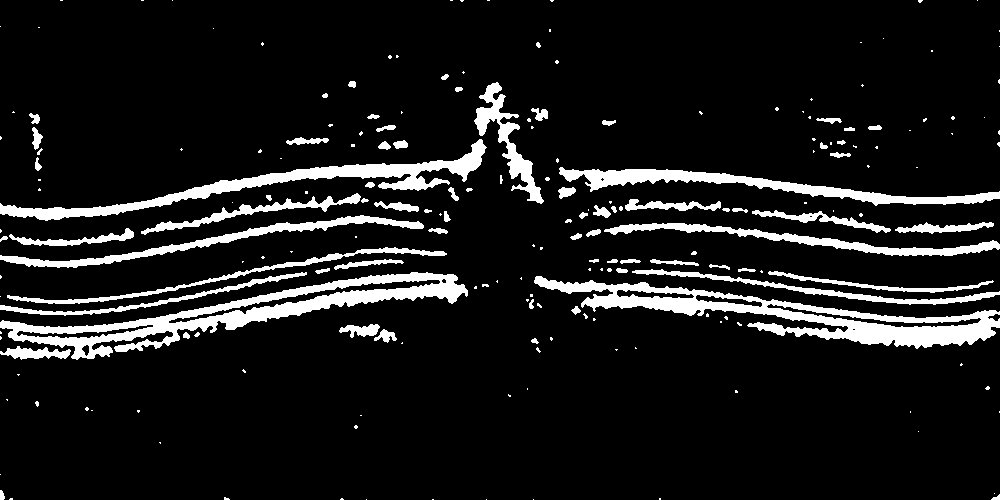
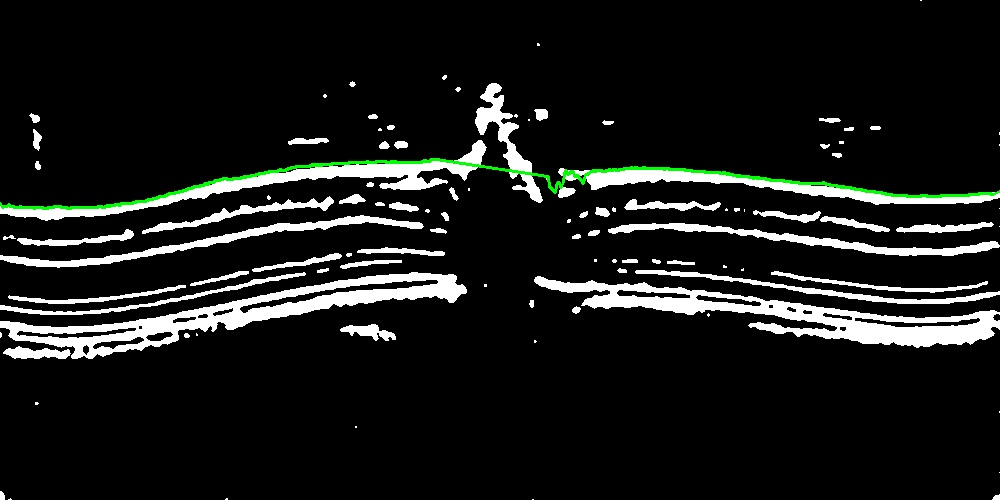
marks first two layers

diff --git a/alt_seg.py b/alt_seg.py
@@ -5,8 +5,8 @@ import numpy as np
 import statistics as stat
 import os
 
-CUR_IMAGE_PATH = '/home/maxberko/seg_automation/A.jpg'
-img = cv2.imread(CUR_IMAGE_PATH)
+CUR_IMAGE_PATH = '/home/maxberko/seg_automation/example_stack.jpg'
+original = cv2.imread(CUR_IMAGE_PATH)
 
 def collect_coordinates(row_start=0):
 	x_coord_arr = [] # array of x coordinate sets
@@ -44,6 +44,13 @@ def reject_outliers(data, m=1):
 
 	return data
 
+# takes in a list of pairs
+def draw(arr, d_img):
+	for i in range(len(arr)-1):
+		p1 = arr[i]
+		p2 = arr[i+1]
+		cv2.line(d_img, (p1[0], p1[1]), (p2[0], p2[1]), (0,255,0), 2)
+
 print('running threshold')
 
 ############################################
@@ -70,27 +77,14 @@ top = reject_outliers(top, m=2)
 l = len(top)/2
 top = top[:l-30] + top[l+30:]
 
-# connects across all top points
-for i in range(len(top)-1):
-	p1 = top[i]
-	p2 = top[i+1]
-	cv2.line(img, (p1[0], p1[1]), (p2[0], p2[1]), (0,255,0), 2)
-
-## TODO--- skip point if it's a suddent change in elevation 
-## INSTEAD of removing outliers, REPLACE these points with neighboring points
-## after this, create and use the gaussian picture where the lines are cleanly separated
 ## TODO--- lookup fitting a line to nth order polynomial
 ## use 'feeler' to look several pixels ahead/up/down to find next brightest spot
 
-
-#NEW_IMAGE_PATH = CUR_IMAGE_PATH.split('.')[0] + '_modified.jpg'
-cv2.imwrite(NEW_IMAGE_PATH, img)
 
 #####################################################################################
 
 # read in and save a jpeg
 img = cv2.imread(CUR_IMAGE_PATH)
-
 grayscaled = cv2.cvtColor(img, cv2.COLOR_BGR2GRAY)
 
 ## adaptive gaussian thresholding
@@ -98,11 +92,47 @@ grayscaled = cv2.cvtColor(img, cv2.COLOR_BGR2GRAY)
 # last value: switches between black (neg) and white (pos) -- higher values increase intensity
 threshold = cv2.adaptiveThreshold(grayscaled, 255, cv2.ADAPTIVE_THRESH_GAUSSIAN_C, cv2.THRESH_BINARY, 37, -2)
 
-# TODO-- find a better way to clean up picture
-# remove salt and pepper noise
-# this removes the need for imageJ entirely
+# remove salt and pepper noise- convert to BGR colour channels
 median_reduction = cv2.medianBlur(threshold, 5)
-median_reduction = cv2.medianBlur(median_reduction, 5)
+img = cv2.medianBlur(median_reduction, 5)
+#img = cv2.cvtColor(median_reduction, cv2.COLOR_GRAY2BGR)
+
+## Draw all bottom points connecting top points using despeck
+## ROW START is the correlating top[i] row coordinate
+bot = [] # array of coordinates
+for pair in top:
+	for y in range(pair[1], rows-1): 
+		x = pair[0]
+		# white to black
+		if img[y, x] == 255 and img[y+1, x] == 0:
+			bot.append((x, y+1))
+			break	
+
+print('removing outliers')
+bot = reject_outliers(bot, m=2)
+
+# remove middle
+l = len(bot)/2
+bot = bot[:l-30] + bot[l+30:]
 
 
-cv2.imwrite('/home/maxberko/seg_automation/despeck.jpg', median_reduction)
+## TODO: use binary img to find the absolute
+## bottom then use the despeck image (img) to find the top of that
+
+#brightness of a pixel using BGR/RGB:
+# sum([R, G, B]) / 3 
+
+# connect all points
+draw(top, original)
+draw(bot, original)
+
+
+# writing modified image files
+
+NEW_IMAGE_PATH = CUR_IMAGE_PATH.split('.')[0] + '_modified.jpg'
+cv2.imwrite(NEW_IMAGE_PATH, original)
+
+# shows top and bottom clearly but nothing else
+#cv2.imwrite(CUR_IMAGE_PATH.split('.')[0] + '_binary.jpg', binary)
+
+cv2.imwrite(CUR_IMAGE_PATH.split('.')[0] + '_despeck.jpg', img)
